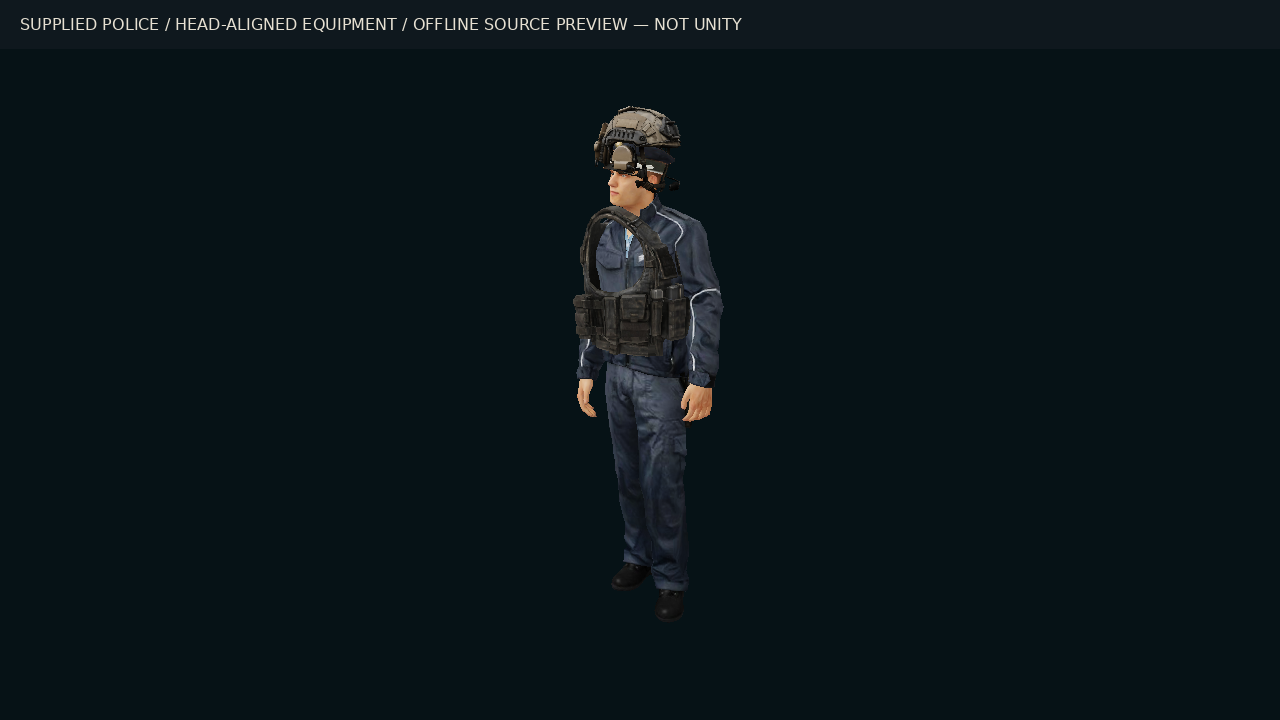
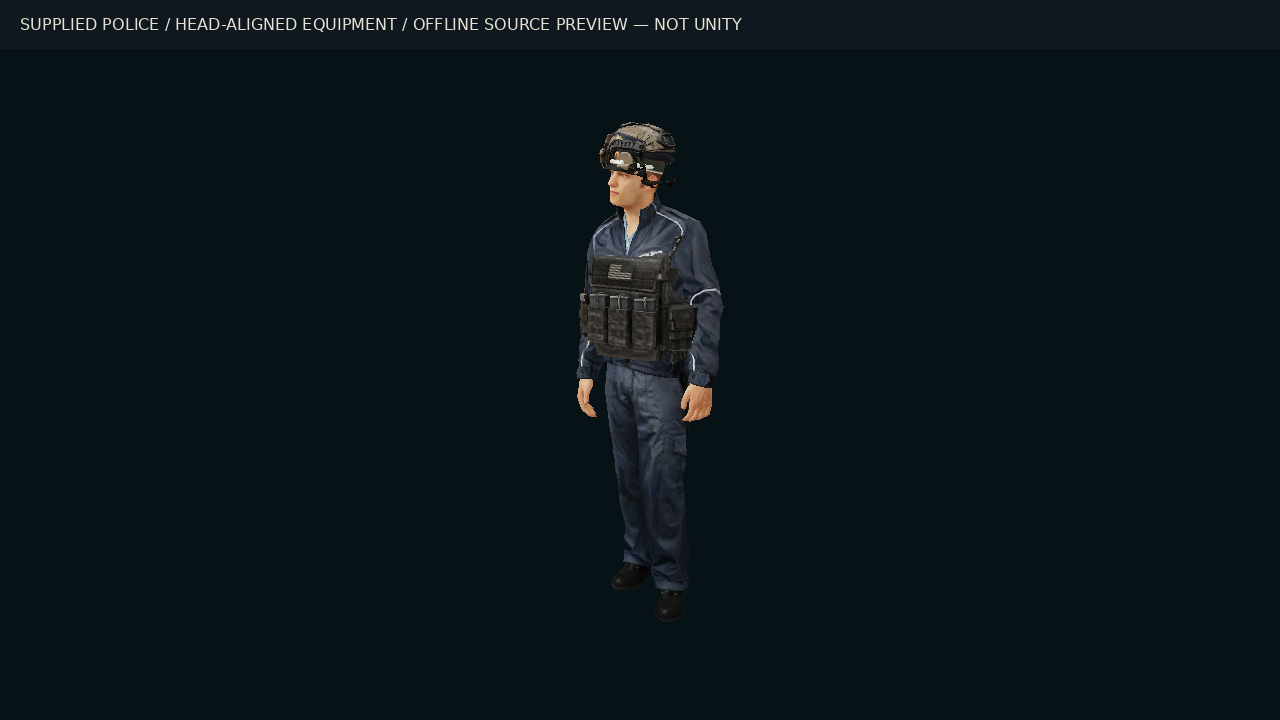
Fit police equipment to body dimensions and correct sideways vest

Changed region(s): [[0.4375, 0.275, 0.5625, 0.5194], [0.4688, 0.1528, 0.5312, 0.2444], [0.5, 0.2444, 0.5312, 0.275]]

diff --git a/Assets/Game/Supplied/Scripts/SuppliedIslandWorld.cs b/Assets/Game/Supplied/Scripts/SuppliedIslandWorld.cs
@@ -41,12 +41,23 @@ namespace Blackstone.Supplied
                 var guard=SuppliedModel.Create("Police",transform);guard.transform.rotation=Quaternion.Euler(0,180,0);SuppliedModel.SizeAndGround(guard,1.82f,guardPosition);
                 var head=NamedRenderer(guard,"policeman_head");
                 if(head==null)throw new InvalidOperationException("The supplied police head mesh is missing.");
-                var headBounds=head.bounds;
-                var helmetAnchor=Anchor("Helmet socket",guard.transform,new Vector3(headBounds.center.x,headBounds.max.y-.065f,headBounds.center.z));
-                var vestAnchor=Anchor("Vest socket",guard.transform,new Vector3(headBounds.center.x,guardPosition.y+1.27f,headBounds.center.z)-guard.transform.forward*.025f);
-                // The supplied wearables face opposite the OBJ officer's source forward.
-                helmetAnchor.localRotation=vestAnchor.localRotation=Quaternion.Euler(0,180,0);
-                SuppliedModel.Attach("Helmet",helmetAnchor,.32f,Vector3.zero);SuppliedModel.Attach("Vest",vestAnchor,.56f,Vector3.zero);
+                var body=NamedRenderer(guard,"policeman_body");
+                if(body==null)throw new InvalidOperationException("The supplied police body mesh is missing.");
+                var frame=guard.transform;
+                var officerBounds=SuppliedModel.MeshBounds(guard,frame);
+                var headBounds=SuppliedModel.MeshBounds(head.gameObject,frame);
+                var torso=SuppliedModel.MeshBounds(body.gameObject,frame,
+                    officerBounds.min.y+officerBounds.size.y*.55f,officerBounds.min.y+officerBounds.size.y*.8f,
+                    headBounds.center.x,headBounds.size.x*.9f);
+                var helmetPosition=new Vector3(headBounds.center.x,headBounds.max.y-headBounds.size.y*.20f,headBounds.center.z);
+                var helmetAnchor=Anchor("Helmet socket",frame,frame.TransformPoint(helmetPosition));
+                var vestAnchor=Anchor("Vest socket",frame,frame.TransformPoint(torso.center));
+                // Helmet forward is reversed; the vest's front plate is along its source X axis.
+                helmetAnchor.localRotation=Quaternion.Euler(0,180,0);
+                vestAnchor.localRotation=Quaternion.Euler(0,90,0);
+                SuppliedModel.AttachFitted("Helmet",helmetAnchor,Vector3.Scale(headBounds.size,new Vector3(1.12f,.58f,.85f)));
+                var vestSize=Vector3.Scale(torso.size,new Vector3(1.20f,1.14f,1.42f));
+                SuppliedModel.AttachFitted("Vest",vestAnchor,new Vector3(vestSize.z,vestSize.y,vestSize.x));
                 var guardBody=guard.AddComponent<CapsuleCollider>();guardBody.height=1.8f/guard.transform.lossyScale.y;guardBody.radius=.25f/guard.transform.lossyScale.x;
                 guardBody.center=guard.transform.InverseTransformPoint(guardPosition+Vector3.up*.9f);
                 Vector3 dogPosition=Ground(new Vector3(-105,0,25));var dogRoot=new GameObject("Police dog patrol");dogRoot.transform.SetParent(transform);dogRoot.transform.position=dogPosition;

diff --git a/Assets/Game/Alcatraz/Editor/SuppliedGameplayChecks.cs b/Assets/Game/Alcatraz/Editor/SuppliedGameplayChecks.cs
@@ -66,7 +66,7 @@ namespace Blackstone.Alcatraz.Editor
                 var helmet=guard.transform.Find("Helmet socket");var vest=guard.transform.Find("Vest socket");
                 Check(helmet!=null&&Mathf.Abs(helmet.position.x-head.bounds.center.x)<.001f&&Mathf.Abs(helmet.position.z-head.bounds.center.z)<.001f,
                     "helmet is centered on the officer's head");
-                Check(vest!=null&&Quaternion.Angle(vest.localRotation,Quaternion.Euler(0,180,0))<.1f,
+                Check(vest!=null&&Quaternion.Angle(vest.localRotation,Quaternion.Euler(0,90,0))<.1f,
                     "vest faces the same direction as the officer");
                 world.EnterCellhouse();Check(world.InsidePrison,"enter cellhouse");Supported(player,"Cellhouse entry");
                 Check(foundation.PlayerEquipment==equipment,"equipment survives entry");
@@ -84,6 +84,33 @@ namespace Blackstone.Alcatraz.Editor
         }
         static Renderer NamedRenderer(GameObject model,string name)
         {if(model!=null)foreach(var r in model.GetComponentsInChildren<Renderer>())if(r.name==name)return r;return null;}
+        [MenuItem("Alcatraz/Validate Police Equipment Fit",priority=23)]
+        public static void ValidateEquipmentFit()
+        {
+            checks=0;
+            foreach(float scale in new[]{.75f,1f,1.3f})foreach(float yaw in new[]{0f,45f,90f,180f})
+            {
+                var root=new GameObject("Temporary police fitting check");root.hideFlags=HideFlags.HideAndDontSave;
+                try
+                {
+                    root.transform.position=new Vector3(3,10,4);
+                    root.transform.rotation=Quaternion.Euler(0,yaw,0);
+                    root.transform.localScale=new Vector3(scale*1.1f,scale,scale*.9f);
+                    foreach(string name in new[]{"Helmet","Vest"})
+                    {
+                        var anchor=new GameObject("Fit anchor").transform;anchor.SetParent(root.transform,false);
+                        anchor.localRotation=Quaternion.Euler(0,name=="Helmet"?180:90,0);
+                        Vector3 size=name=="Helmet"?new Vector3(.28f,.25f,.24f):new Vector3(.4f,.52f,.5f);
+                        var model=SuppliedModel.AttachFitted(name,anchor,size);
+                        var bounds=SuppliedModel.MeshBounds(model,anchor);
+                        Check((bounds.size-size).sqrMagnitude<.000001f,name+" fits requested local size under rotated/nonuniform parent");
+                        Check(bounds.center.sqrMagnitude<.000001f,name+" stays centered on anchor under rotated/nonuniform parent");
+                    }
+                }
+                finally {UnityEngine.Object.DestroyImmediate(root);}
+            }
+            Debug.Log("Police equipment fit passed: "+checks+" assertions using imported native mesh vertices.");
+        }
     }
 }
 #endif

diff --git a/Assets/Game/Supplied/Scripts/SuppliedModel.cs b/Assets/Game/Supplied/Scripts/SuppliedModel.cs
@@ -48,5 +48,34 @@ namespace Blackstone.Supplied
             var bounds=Bounds(model);model.transform.localScale*=height/Mathf.Max(.001f,bounds.size.y);
             bounds=Bounds(model);model.transform.position+=bone.TransformPoint(offset)-bounds.center;
         }
+        public static Bounds MeshBounds(GameObject model,Transform frame,float minY=float.NegativeInfinity,
+            float maxY=float.PositiveInfinity,float centerX=0,float halfWidth=float.PositiveInfinity)
+        {
+            Bounds result=new Bounds();bool found=false;
+            foreach(var filter in model.GetComponentsInChildren<MeshFilter>())
+            {
+                if(filter.sharedMesh==null)continue;
+                foreach(var vertex in filter.sharedMesh.vertices)
+                {
+                    Vector3 p=frame.InverseTransformPoint(filter.transform.TransformPoint(vertex));
+                    if(p.y<minY||p.y>maxY||Mathf.Abs(p.x-centerX)>halfWidth)continue;
+                    if(!found){result=new Bounds(p,Vector3.zero);found=true;}else result.Encapsulate(p);
+                }
+            }
+            if(!found)throw new InvalidOperationException("No fitting vertices in "+model.name);
+            return result;
+        }
+        public static GameObject AttachFitted(string name,Transform anchor,Vector3 size)
+        {
+            var model=Create(name,anchor);model.transform.localRotation=Quaternion.identity;
+            var bounds=MeshBounds(model,anchor);
+            if(bounds.size.x<=0||bounds.size.y<=0||bounds.size.z<=0)
+                throw new InvalidOperationException("Invalid equipment dimensions for "+name);
+            model.transform.localScale=Vector3.Scale(model.transform.localScale,
+                new Vector3(size.x/bounds.size.x,size.y/bounds.size.y,size.z/bounds.size.z));
+            bounds=MeshBounds(model,anchor);
+            model.transform.localPosition-=bounds.center;
+            return model;
+        }
     }
 }

diff --git a/Tools/render_police_helicopter_previews.py b/Tools/render_police_helicopter_previews.py
@@ -23,9 +23,18 @@ def main():
     head=next(m for m in officer if m['name']=='policeman_head');lo,hi=r.bounds([head]);center=(lo+hi)/2
     reverse=np.diag([-1,1,-1,1])
     helmet=[r.transform(m,reverse) for m in r.gltf('Helmet')]
-    vest=[r.transform(m,reverse) for m in r.gltf('Vest')]
-    fitted=officer+r.fit(helmet,.32,(center[0],hi[1]-.065,center[2]),bottom=False)
-    fitted+=r.fit(vest,.56,(center[0],1.27,center[2]-.025),bottom=False)
+    vest=[r.transform(m,np.array([[0,0,1,0],[0,1,0,0],[-1,0,0,0],[0,0,0,1]])) for m in r.gltf('Vest')]
+    whole_lo,whole_hi=r.bounds(officer)
+    torso=next(m for m in officer if m['name']=='policeman_body')['v']
+    height=whole_hi[1]-whole_lo[1]
+    torso=torso[(torso[:,1]>=whole_lo[1]+height*.55)&(torso[:,1]<=whole_lo[1]+height*.8)&(abs(torso[:,0]-center[0])<=(hi[0]-lo[0])*.9)]
+    torso_lo,torso_hi=torso.min(0),torso.max(0)
+    def fitted_box(meshes,size,position):
+        lower,upper=r.bounds(meshes);scale=np.array(size)/(upper-lower)
+        matrix=np.diag([*scale,1.]);matrix[:3,3]=np.array(position)-(lower+upper)/2*scale
+        return [r.transform(m,matrix) for m in meshes]
+    fitted=officer+fitted_box(helmet,(hi-lo)*[1.12,.58,.85],(center[0],hi[1]-(hi[1]-lo[1])*.20,center[2]))
+    fitted+=fitted_box(vest,(torso_hi-torso_lo)*[1.20,1.14,1.42],(torso_lo+torso_hi)/2)
     save(fitted,out/'Police.png','SUPPLIED POLICE / HEAD-ALIGNED EQUIPMENT',(2,1.7,3),(0,.95,0))
     save(fitted,out/'PoliceRear.png','SUPPLIED POLICE / EQUIPMENT REAR',(-2,1.7,-3),(0,.95,0))
     helicopter=r.fit(r.gltf('Helicopter'),2.8,(0,0,0))

diff --git a/Documentation/PoliceHelicopterFixes.md b/Documentation/PoliceHelicopterFixes.md
@@ -1,9 +1,12 @@
 # Police equipment and Little Bird fixes
 
-The supplied police officer's helmet is now centered on its named head mesh,
-rather than on bounds that include its arms and holstered gun. The helmet is raised
-to keep the face clear. Helmet and vest anchors correct the supplied equipment's
-opposite forward direction, and the vest is fitted around the torso at 0.56 metres.
+The supplied police officer's helmet is centered and sized from its named head mesh,
+rather than bounds that include its arms and holstered gun. Its height is 58% of the
+head bounds and it sits below the cap's top, with a small clearance around the head.
+The vest's source front is along X: a 90-degree turn places the plate forward instead
+of exposing the armhole toward the camera. Its width, height and depth are fitted
+separately to an upper-body section of the officer, excluding its arms. Helmet and
+vest sizes use the officer's own coordinates and follow the parent body's scale.
 The officer's original mesh and three textures are unchanged. This remains the
 supplied static OBJ officer, not a newly animated or higher-resolution character.
 
@@ -50,3 +53,8 @@ controls with a connected idle gamepad, take off, turn, land and exit beside cle
 ground. Inspect rotor axles, transparent windows and tail collision clearance.
 These live Unity checks, flight physics and a Windows build remain unexecuted
 because the editor is unavailable in this cloud machine.
+
+The follow-up fitting check **Alcatraz > Validate Police Equipment Fit** checks
+helmet and vest centering and dimensions under three parent scales and four
+headings, including nonuniform parent scale. Its 48 assertions require imported
+Unity assets and have not been run in this cloud machine.
